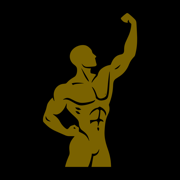
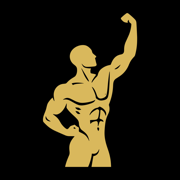
Saluto e icona in oro champagne (2026-11-04.2143)

Changed region(s): [[0.2222, 0.0556, 0.7778, 0.9444]]

diff --git a/sw.js b/sw.js
@@ -1,5 +1,5 @@
 // Service worker: cache versionata dell'app, aggiornamento automatico.
-const VERSION = '2026-11-04.2140';
+const VERSION = '2026-11-04.2143';
 const CACHE = 'palestra-' + VERSION;
 const ASSETS = [
   './',

diff --git a/css/app.css b/css/app.css
@@ -651,3 +651,5 @@ body { font-size: 15px; }
 .bv-riga { font-size: 18px; }
 .bv-2 { font-size: 21px; }
 .bv-3 { font-size: 15px; }
+.bv-riga b { color: #D9B85C; }
+.bv-2 { color: #D9B85C; }

diff --git a/js/version.js b/js/version.js
@@ -1,1 +1,1 @@
-export const APP_VERSION = '2026-11-04.2140';
+export const APP_VERSION = '2026-11-04.2143';
